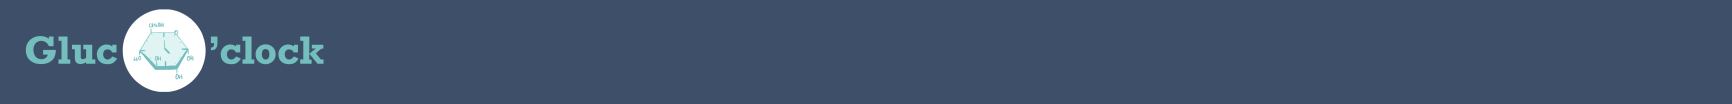
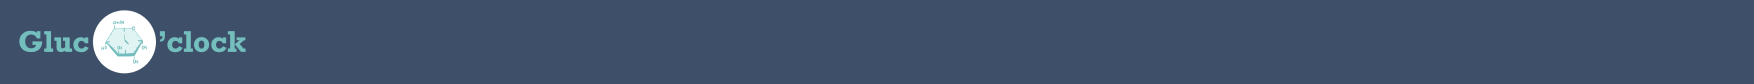
menubar updated

Changed region(s): [[0.0, 0.0952, 0.1871, 0.881]]

diff --git a/src/main/java/com/glucoclock/views/patient/SimpleLBView.java b/src/main/java/com/glucoclock/views/patient/SimpleLBView.java
@@ -31,17 +31,28 @@ public class SimpleLBView extends Div {
     private ComboBox<String> prepost = new ComboBox<>("Pre/Post");
     private ComboBox<String> meal = new ComboBox<>("Meal");
     private Button upload = new Button("Upload");
+    private Button test1 = new Button("Test"); //Menubar test button
+    private Button test2 = new Button("Test");
+
 
 
     public SimpleLBView(){
 
-        Image logo = new Image("images/menubar.png","logo");
-        logo.setWidth("100%");
-
-        add(logo);
+        add(menuBar());
         add(createFields());
 
+    }
 
+    private Component menuBar(){
+        this.setHeight("12.2%");
+        this.getStyle().set( "background-image" , "url('images/menubar.png')");
+        test1.setWidth("8%");
+        test2.setWidth("8%");
+        HorizontalLayout menuButtons = new HorizontalLayout(test1,test2);
+        VerticalLayout rightC = new VerticalLayout();
+        rightC.setHorizontalComponentAlignment(FlexComponent.Alignment.END,menuButtons);
+        rightC.add(menuButtons);
+        return rightC;
     }
 
     private Component createFields() {
